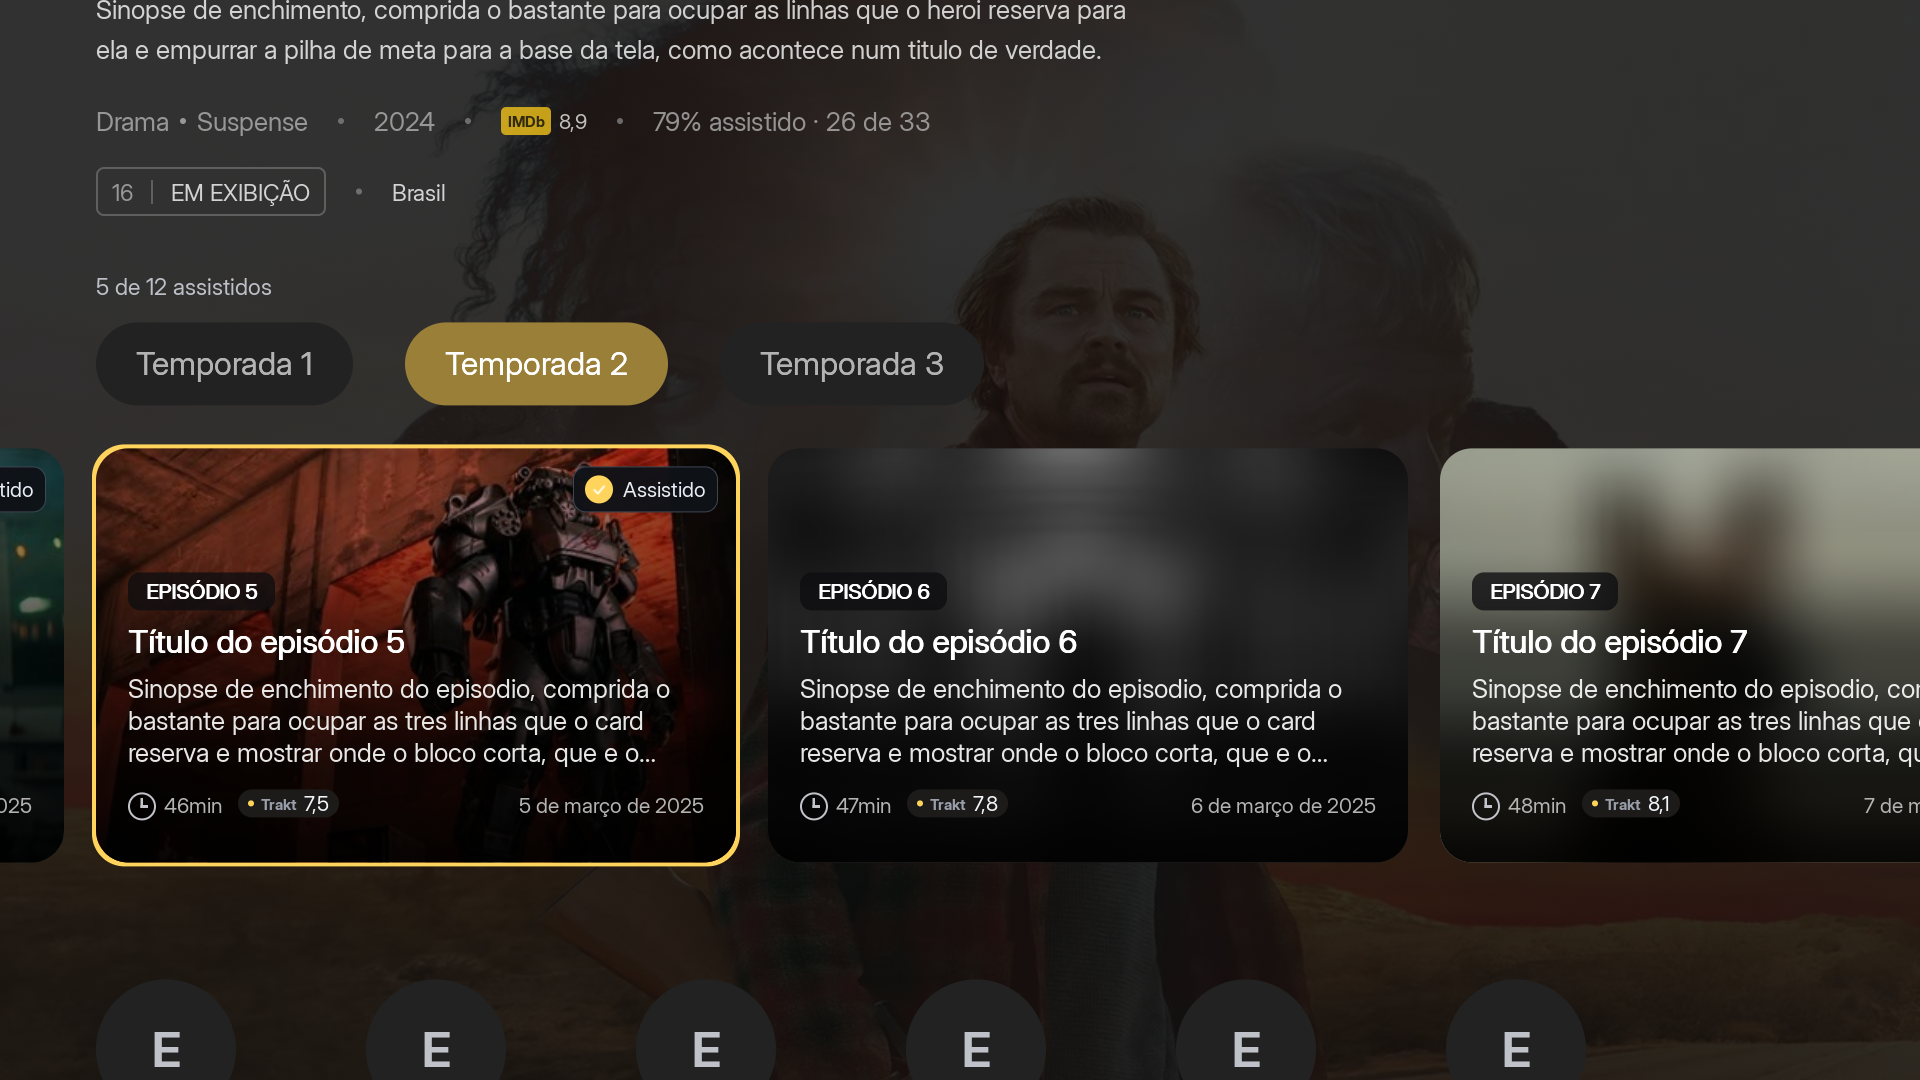
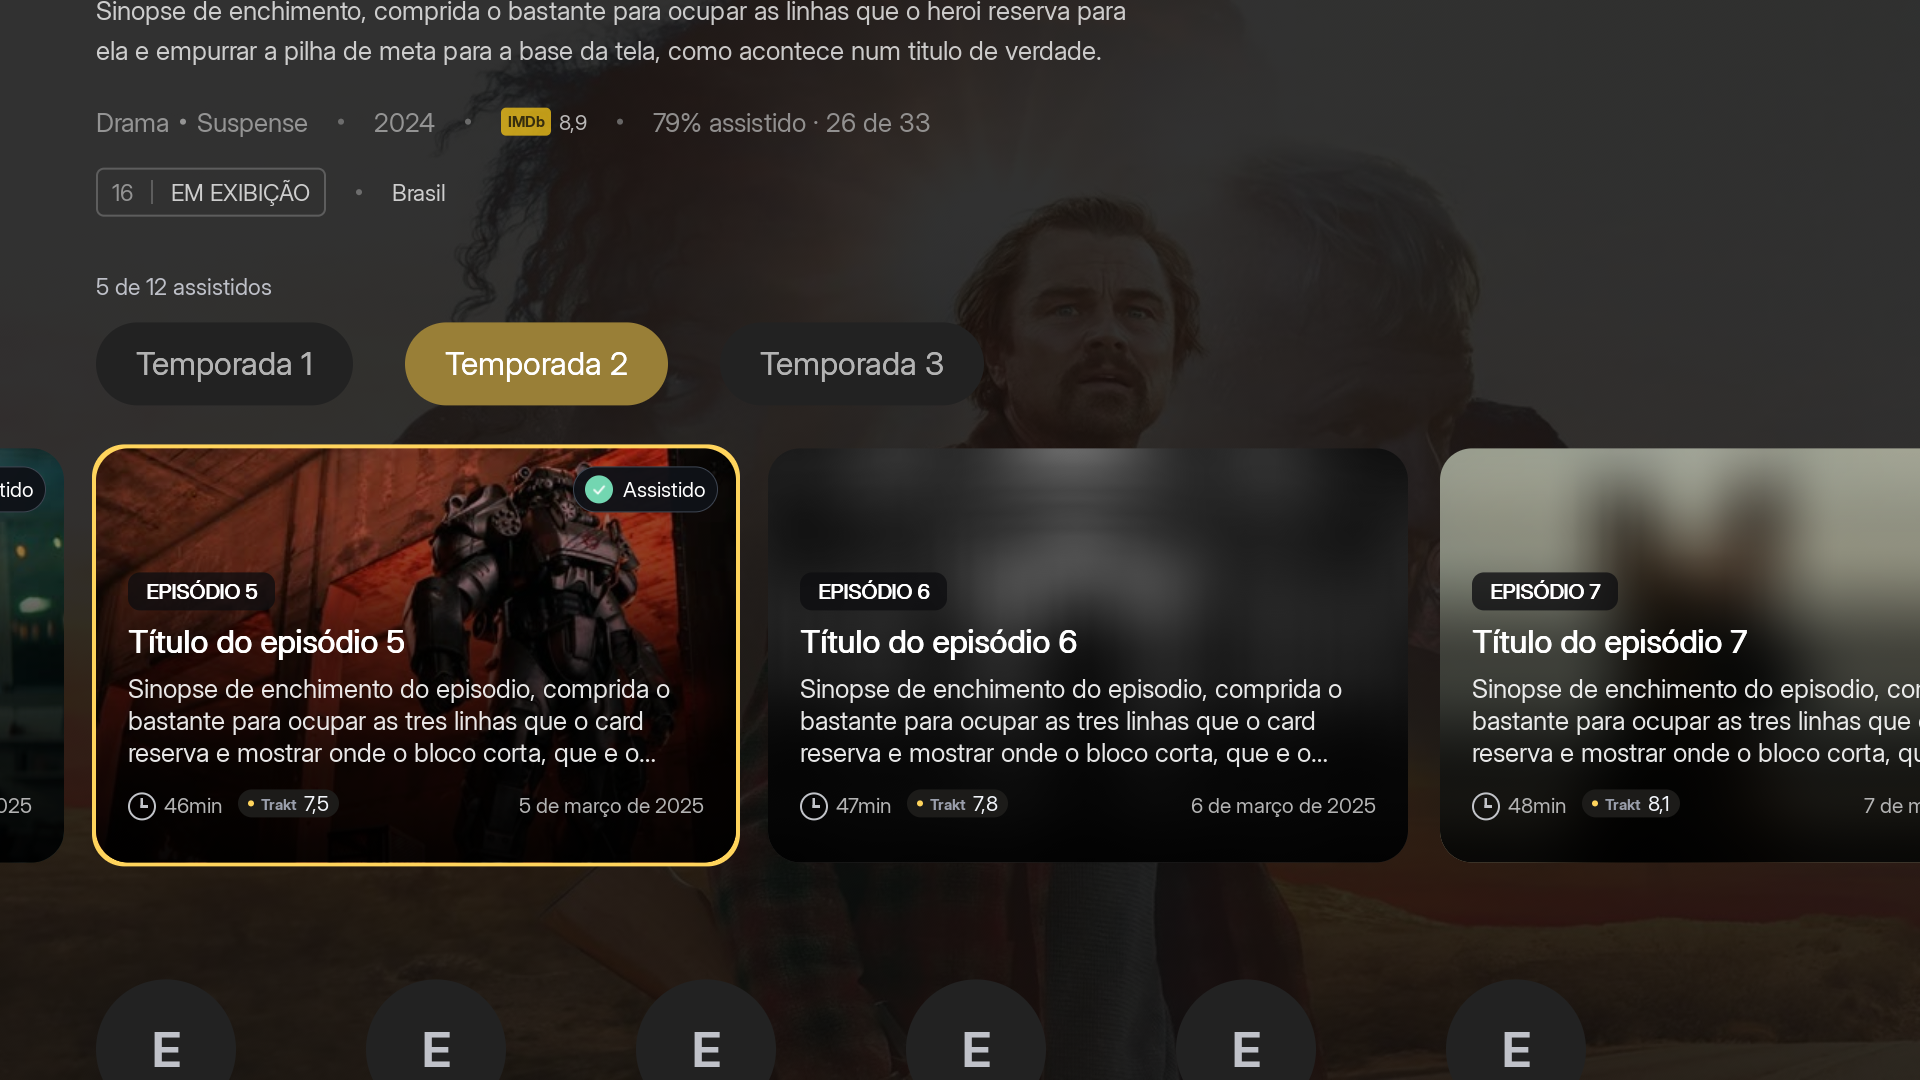
feat: aplica selo assistido jade com check branco

diff --git a/src/detail.c b/src/detail.c
@@ -4103,22 +4103,19 @@ static float desenhaNotaEpisodio(float x, float y, const char *fonte,
 
 
 // Estado concluido: material escuro proprio para sobreviver a qualquer still,
-// check no acento da pessoa e rotulo legivel. O foco pertence a miniatura inteira.
+// circulo jade com check branco e rotulo legivel. O foco pertence a miniatura inteira.
 static void desenhaAssistidoEpisodio(GfxRect th, float a) {
   const float h = 46, pad = 12, icone = 28, gap = 10;
-  float ar, ag, ab;
-  ajustes_acento(&ar, &ag, &ab);
-  TxtLinha texto = txt_linha_corta(TXT_CAPTION2, "Assistido", 231, 237, 246, 255,
+  TxtLinha texto = txt_linha_corta(TXT_CAPTION2, "Assistido", 255, 255, 255, 255,
                                   th.w * .5f - pad * 2 - icone - gap);
   float w = pad * 2 + icone + gap + texto.w;
   GfxRect selo = {th.x + th.w - w - 18, th.y + 18, w, h};
-  gfx_cor(selo, 13 / h, .055f, .068f, .09f, .96f * a);
-  gfx_anel(selo, 13 / h, 1, .68f, .75f, .86f, .30f * a);
+  gfx_cor(selo, .5f, .055f, .068f, .09f, .96f * a);
+  gfx_anel(selo, .5f, 1, .68f, .75f, .86f, .30f * a);
   GfxRect disco = {selo.x + pad, selo.y + (h - icone) * .5f, icone, icone};
-  gfx_cor(disco, .5f, ar, ag, ab, a);
-  float tinta = ajustes_acento_tinta(&ar, &ag, &ab);
+  gfx_cor(disco, .5f, .451f, .839f, .694f, a);
   gfx_icone((GfxRect){disco.x + 5, disco.y + 5, icone - 10, icone - 10},
-             "check", tinta, tinta, tinta, a);
+             "check", 1, 1, 1, a);
   txt_desenhar_alpha(texto, disco.x + icone + gap,
                      selo.y + (h - texto.h) * .5f, a);
 }

diff --git a/docs/reviews/episodios-visto/README.md b/docs/reviews/episodios-visto/README.md
@@ -1,6 +1,6 @@
 # Episódios assistidos — revisão visual
 
-O círculo isolado foi substituído por um selo compacto “Assistido”, com check no acento configurado, superfície escura e contorno discreto. A lavagem da miniatura caiu de 22% para 12%, preservando mais da arte. O foco continua no contorno da miniatura.
+O círculo isolado foi substituído por um selo compacto “Assistido”, com círculo jade, check branco, texto branco, cápsula escura arredondada e contorno discreto, conforme o mockup aprovado. A lavagem da miniatura caiu de 22% para 12%, preservando mais da arte. O foco continua no contorno da miniatura.
 
 O estado usa a mesma fonte de histórico do menu; histórico desconhecido não recebe selo. O texto utiliza a tradução existente e limita a largura do selo. Não há alteração na persistência ou navegação.
 
@@ -15,7 +15,7 @@ O estado usa a mesma fonte de histórico do menu; histórico desconhecido não r
 ## Verificação
 
 - `bash tests/detail_eps.sh`: passou.
-- `bash tests/detail_eps_shot.sh /tmp/nuvio-episodios-depois`: execução concluída, capturas dos estados de histórico, foco, temporadas, episódios futuros e desfoque.
+- `bash tests/detail_eps_shot.sh /tmp/nuvio-episodios-jade`: execução concluída, capturas dos estados de histórico, foco, temporadas, episódios futuros e desfoque.
 - `python3 tools/varredura-i18n.py`: nenhuma ocorrência sem tradução.
 - `git diff --check`: passou.
 
